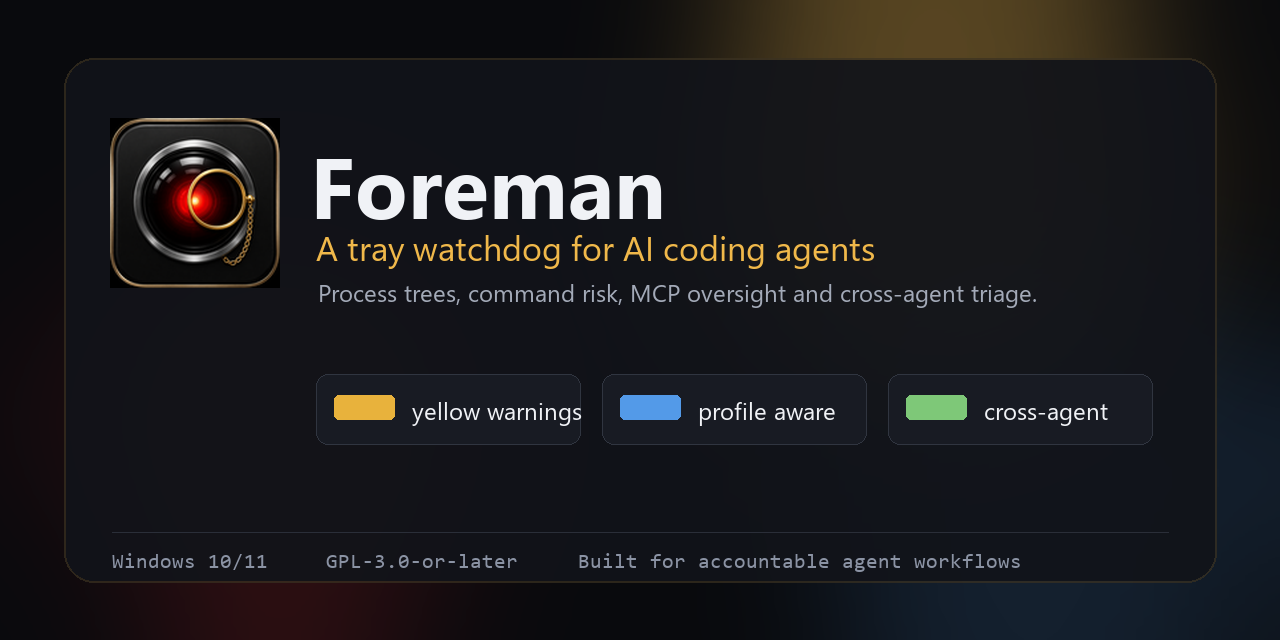
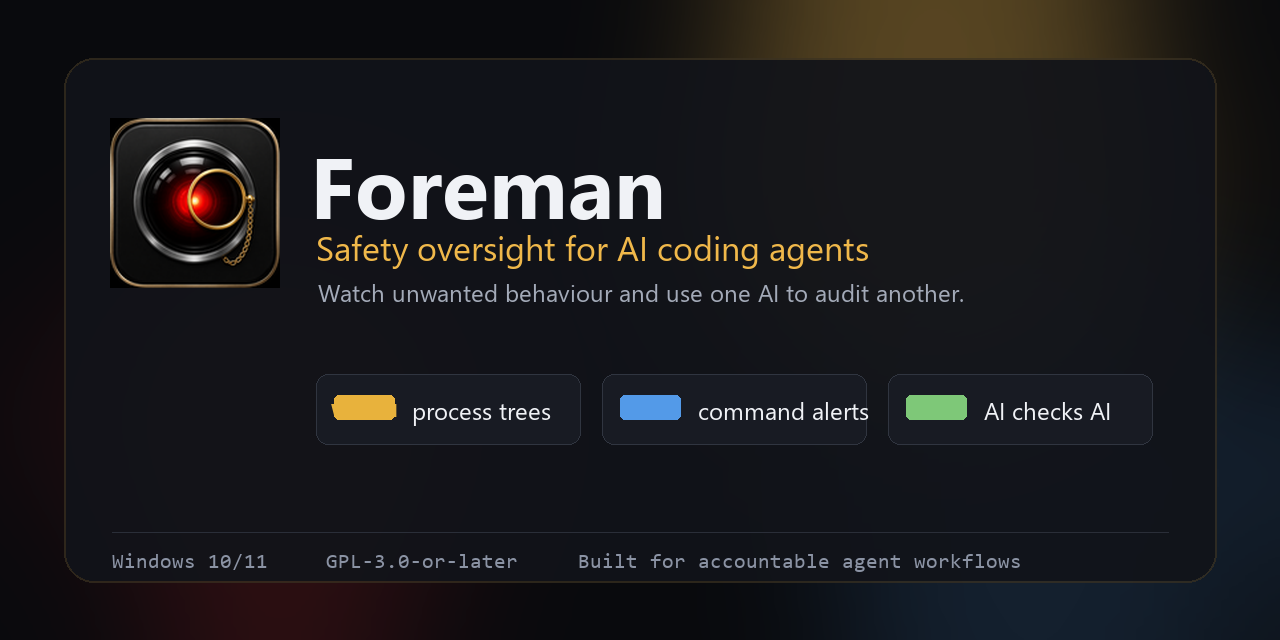
Reposition Foreman as AI safety oversight

diff --git a/src/Foreman.App/Windows/DashboardWindow.xaml b/src/Foreman.App/Windows/DashboardWindow.xaml
@@ -104,7 +104,7 @@
                                    FontSize="15" FontWeight="Bold"
                                    FontFamily="Segoe UI, Arial"
                                    Foreground="{StaticResource AccentBrush}" />
-                        <TextBlock Text="harness watch"
+                        <TextBlock Text="agent safety"
                                    FontSize="10"
                                    Foreground="{StaticResource TextMutedBrush}"
                                    Margin="0,1,0,0" />

diff --git a/src/Foreman.App/FirstRunDetector.cs b/src/Foreman.App/FirstRunDetector.cs
@@ -5,7 +5,7 @@ namespace Foreman.App;
 
 /// <summary>
 /// On first launch, detects whether Claude Code is installed and shows
-/// a one-time welcome dialog explaining how to connect Foreman.
+/// a one-time welcome dialog explaining Foreman's safety monitor role.
 /// </summary>
 public static class FirstRunDetector
 {
@@ -39,20 +39,23 @@ public static class FirstRunDetector
                   ? "Your ~/.mcp.json is already configured — Claude Code will connect automatically."
                   : $"To connect Claude Code, run:\n\n  claude mcp add foreman http://localhost:{mcpPort}/mcp\n\nOr add to ~/.mcp.json:\n  \"foreman\": {{ \"type\": \"http\", \"url\": \"http://localhost:{mcpPort}/mcp\" }}")}
 
-              Foreman will monitor harness processes, detect hangs and orphans,
-              and alert you to dangerous CLI patterns — all from the system tray.
+              Foreman will watch agent process trees, flag risky CLI patterns,
+              attribute spawned processes and expose audit routes so another
+              harness or API can review the session.
 
-              Right-click the tray icon to open the log, or double-click to view events.
+              Left-click the tray icon for the dashboard. Right-click for tools and settings.
+              Double-click to open the event log.
               """
             : $"""
               Welcome to Foreman!
 
-              Foreman is running on port {mcpPort} and monitoring this machine.
+              Foreman is running on port {mcpPort} as an agent safety monitor.
 
               To connect an MCP client, point it at:
                 http://localhost:{mcpPort}/mcp
 
-              Right-click the tray icon to open the log, or double-click to view events.
+              Left-click the tray icon for the dashboard. Right-click for tools and settings.
+              Double-click to open the event log.
               """;
 
         MessageBox.Show(msg, "Foreman — First Run", MessageBoxButton.OK, MessageBoxImage.Information);

diff --git a/README.md b/README.md
@@ -1,15 +1,15 @@
 <p align="center">
-  <img src="docs/assets/foreman-social-preview.png" alt="Foreman - a tray watchdog for AI coding agents">
+  <img src="docs/assets/foreman-social-preview.png" alt="Foreman - safety oversight for AI coding agents">
 </p>
 
 <h1 align="center">Foreman</h1>
 
 <p align="center">
-  A Windows tray watchdog for AI coding agents with process-tree monitoring, command-risk alerts, behavior escalation and an MCP bridge agents can query for their own oversight.
+  A Windows safety monitor for AI coding agents: watch for unwanted behaviour, inspect risky actions and route one AI to audit another.
 </p>
 
 <p align="center">
-  <strong>Built to feel calm, useful and accountable during real agent work.</strong>
+  <strong>Built to keep agent work visible, accountable and reviewable.</strong>
 </p>
 
 [![License: GPL-3.0-or-later](https://img.shields.io/badge/License-GPL--3.0--or--later-blue.svg)](LICENSE)
@@ -20,22 +20,23 @@
 
 ## Why
 
-AI coding agents are good at starting things and bad at cleaning up. Over a long session a harness will leave orphaned shell processes behind, jam a hook that never returns, and spawn child processes that outlive a harness restart. Once in a while it will also run a command that does real damage — wiping a directory, piping a remote script straight into a shell, reaching for credential-dumping tooling.
+AI coding agents can act quickly across shells, files, credentials and networked tools. Most of the time that is useful. Sometimes it is surprising, unsafe or simply not what you asked for. Foreman exists so a human operator can keep an eye on that behaviour without reading every terminal line.
 
-Foreman is a watchdog for that class of problem, not a policy enforcer. It runs at medium integrity (no admin, no UAC), sits in the tray, and tells you when an agent is making a mess or about to do something you'd want to stop. Think smart AV for agent sessions, not a sandbox.
+Foreman is a safety monitor, not a sandbox or policy enforcer. It runs at medium integrity (no admin, no UAC), sits in the tray and raises explainable alerts when an agent does something worth reviewing. Its MCP bridge also lets one harness or API act as the auditor for another, so you can use a second AI to triage the first AI's actions.
 
 ## What it does
 
-- Watches the process trees your agents create and notices when a child process is **hung** (silent past a threshold) or **orphaned** (parent harness gone, child still running).
-- Flags shell commands by category — destructive/deletion commands, network-borne code execution, privilege escalation, credential-access tooling, and Windows-specific defense-evasion or persistence.
+- Watches process trees so spawned commands, hung children and orphaned processes remain visible.
+- Flags shell commands by category — destructive/deletion commands, network-borne code execution, privilege escalation, credential-access tooling and Windows-specific defense-evasion or persistence.
 - Tracks per-agent behavior across a session and **escalates** through four levels (Watch → Alert → Alarm → Emergency) as alerts accumulate.
 - Classifies known agents automatically (Claude Code, Codex, and others) from process name and command line; you can register custom executable names.
-- Exposes an **MCP server** an agent can call to check its own status, pre-flight a command, see whether Foreman has raised an alarm about it, and announce task boundaries.
+- Exposes an **MCP server** an agent can call to check its own status, pre-flight a command, see whether Foreman has raised an alarm about it and announce task boundaries.
+- Routes LLM triage so a user-nominated harness or API can review another agent's actions.
 - Keeps a searchable, exportable event log and an at-a-glance dashboard, with tray notifications for critical alerts.
 
 ## Product standards
 
-Foreman is security tooling, but it should not feel hostile or ugly. The target experience is a quiet tray app people want to keep running: clear status at a glance, explainable alerts, fast detail views and enough visual care that contributors can trust the project is maintained deliberately.
+Foreman is safety tooling, but it should not feel hostile or ugly. The target experience is a quiet tray app people want to keep running: clear status at a glance, explainable alerts, fast detail views and enough visual care that contributors can trust the project is maintained deliberately.
 
 That standard matters for FOSS too. Design polish, documentation, tests and installer quality are treated as first-class work alongside detection coverage.
 
@@ -60,11 +61,11 @@ Anything else can be added as a custom harness executable name in settings.
 
 Four moving parts, kept deliberately separate.
 
-**Tray app.** A WPF tray icon (green / amber / red) is the whole UI surface. Left-click opens the Dashboard (per-agent status chips and a recent-alert feed). Double-click opens the Event Log (filter, search, export). The right-click menu also reaches Process Monitor, Harnesses, Behavior Metrics, Settings, and a "Send test alert" action. A critical alert raises a tray notification; clicking it opens an Alert window that explains why the command is risky and what to do.
+**Tray app.** A WPF tray icon (green / amber / red) is the main operator surface. Left-click opens the Dashboard (session metrics, per-agent status chips and a recent-alert feed). Double-click opens the Event Log (filter, search, export). The right-click menu also reaches Process Monitor, Harnesses, Behavior Metrics, Settings and a "Send test alert" action. A critical alert raises a tray notification; clicking it opens an Alert window that explains why the action is risky and what to do.
 
 **Heuristic engine.** Around 30 compiled-regex rules across five categories, loaded from JSON. Each rule carries an id, name, severity (info / low / medium / high / critical), description, target platforms, and false-positive tags. A false-positive filter suppresses Foreman's own process and known-safe contexts. The rule sources live in [`data/patterns/`](data/patterns/) and are embedded into `Foreman.Core` at build time — read those files if you want the exact coverage; they are the source of truth, not this README.
 
-**Process monitoring.** A WMI watcher subscribes to process create/terminate events. A process-tree tracker maps harness children, an I/O poller samples counters (`GetProcessIoCounters`) to tell "working" from "stuck," and hang/orphan detectors raise events when a child goes silent or loses its parent.
+**Process monitoring.** A WMI watcher subscribes to process create/terminate events. A process-tree tracker maps harness children, an I/O poller samples counters (`GetProcessIoCounters`) to tell "working" from "stuck" and hang/orphan detectors raise events when a child goes silent or loses its parent.
 
 **Behavior escalation.** Each agent session accumulates a profile. Configurable thresholds — medium- and high-alert counts, unique rules fired, distinct categories touched, total alerts, and a set of high-risk rule IDs — drive escalation across four levels:
 
@@ -191,4 +192,4 @@ GPL-3.0-or-later. See [LICENSE](LICENSE). Contributions are accepted under the s
 
 ## Support
 
-Foreman is free and GPL. If it has saved you from a mess and you want to chip in, there's a Ko-fi: <https://ko-fi.com/jinkaflops>.
+Foreman is free and GPL. If it helped you keep agent work safer and you want to chip in, there's a Ko-fi: <https://ko-fi.com/jinkaflops>.

diff --git a/SECURITY.md b/SECURITY.md
@@ -1,6 +1,6 @@
 # Security Policy
 
-Foreman is a Windows-native watchdog for AI coding agents. It runs in the
+Foreman is a Windows-native safety monitor for AI coding agents. It runs in the
 system tray at medium integrity (no admin), watches harness processes via WMI,
 applies a heuristic command-analysis engine, and exposes a local MCP server on
 `http://localhost:54321/mcp` (port configurable). Because it inspects process
@@ -96,11 +96,10 @@ and no telemetry. Scope is bounded accordingly.
 
 - **Detection coverage gaps.** A command that a real attacker could run but that
   Foreman's heuristics do not flag is a missed detection, not a vulnerability.
-  Foreman is described as "a smart AV, not a policy enforcer" — it is a
-  best-effort watchdog and is trivially bypassable by a determined adversary on
-  the same machine. False negatives (and false positives) are bugs or tuning
-  requests; please file those as normal issues, and see `data/patterns/*.json`
-  for the rule definitions.
+  Foreman is a best-effort safety monitor, not a sandbox or policy enforcer, and
+  is trivially bypassable by a determined adversary on the same machine. False
+  negatives (and false positives) are bugs or tuning requests; please file those
+  as normal issues, and see `data/patterns/*.json` for the rule definitions.
 - **The agents being monitored.** Vulnerabilities in Claude Code, Codex,
   Gemini CLI, or any other harness belong to those projects, not Foreman.
 - **Local attacker already at your privilege level.** Foreman runs at medium

diff --git a/docs/FOSS_POLISH_HANDOVER.md b/docs/FOSS_POLISH_HANDOVER.md
@@ -8,7 +8,7 @@ Date: 2026-06-08
 - The app executable uses `Resources\foreman.ico` as its Windows application icon.
 - Every WPF window declares the Foreman icon for the titlebar, taskbar, and Alt-Tab surfaces.
 - The Dashboard has a branded header, session metric strip, quick navigation actions, polished row cards, and an empty state using the supplied icon.
-- README has a generated branded banner under `docs/assets/foreman-social-preview.png` and a short product-standards section to make the public project quality bar explicit.
+- README and the generated banner now lead with Foreman as safety oversight for AI coding agents, including the "one AI audits another" use case.
 - No-I/O hang alerts are medium/yellow warnings, not high/red alarms.
 - Hang alerts now attribute both the direct spawner process and the owning harness when they differ.
 - MCP alert payloads include spawner and owner metadata so another harness/API can audit the event without reconstructing stale process-tree state.
@@ -27,7 +27,7 @@ Latest local result:
 
 - Tests: 54 passed, 0 failed.
 - Release app build: succeeded, 0 warnings, 0 errors.
-- Running instance after bounce: `Foreman.App` PID 71592.
+- Running instance after bounce: `Foreman.App` PID 77264.
 - Health endpoint: `http://localhost:54321/health` returned `status: ok`.
 
 ## Push Status